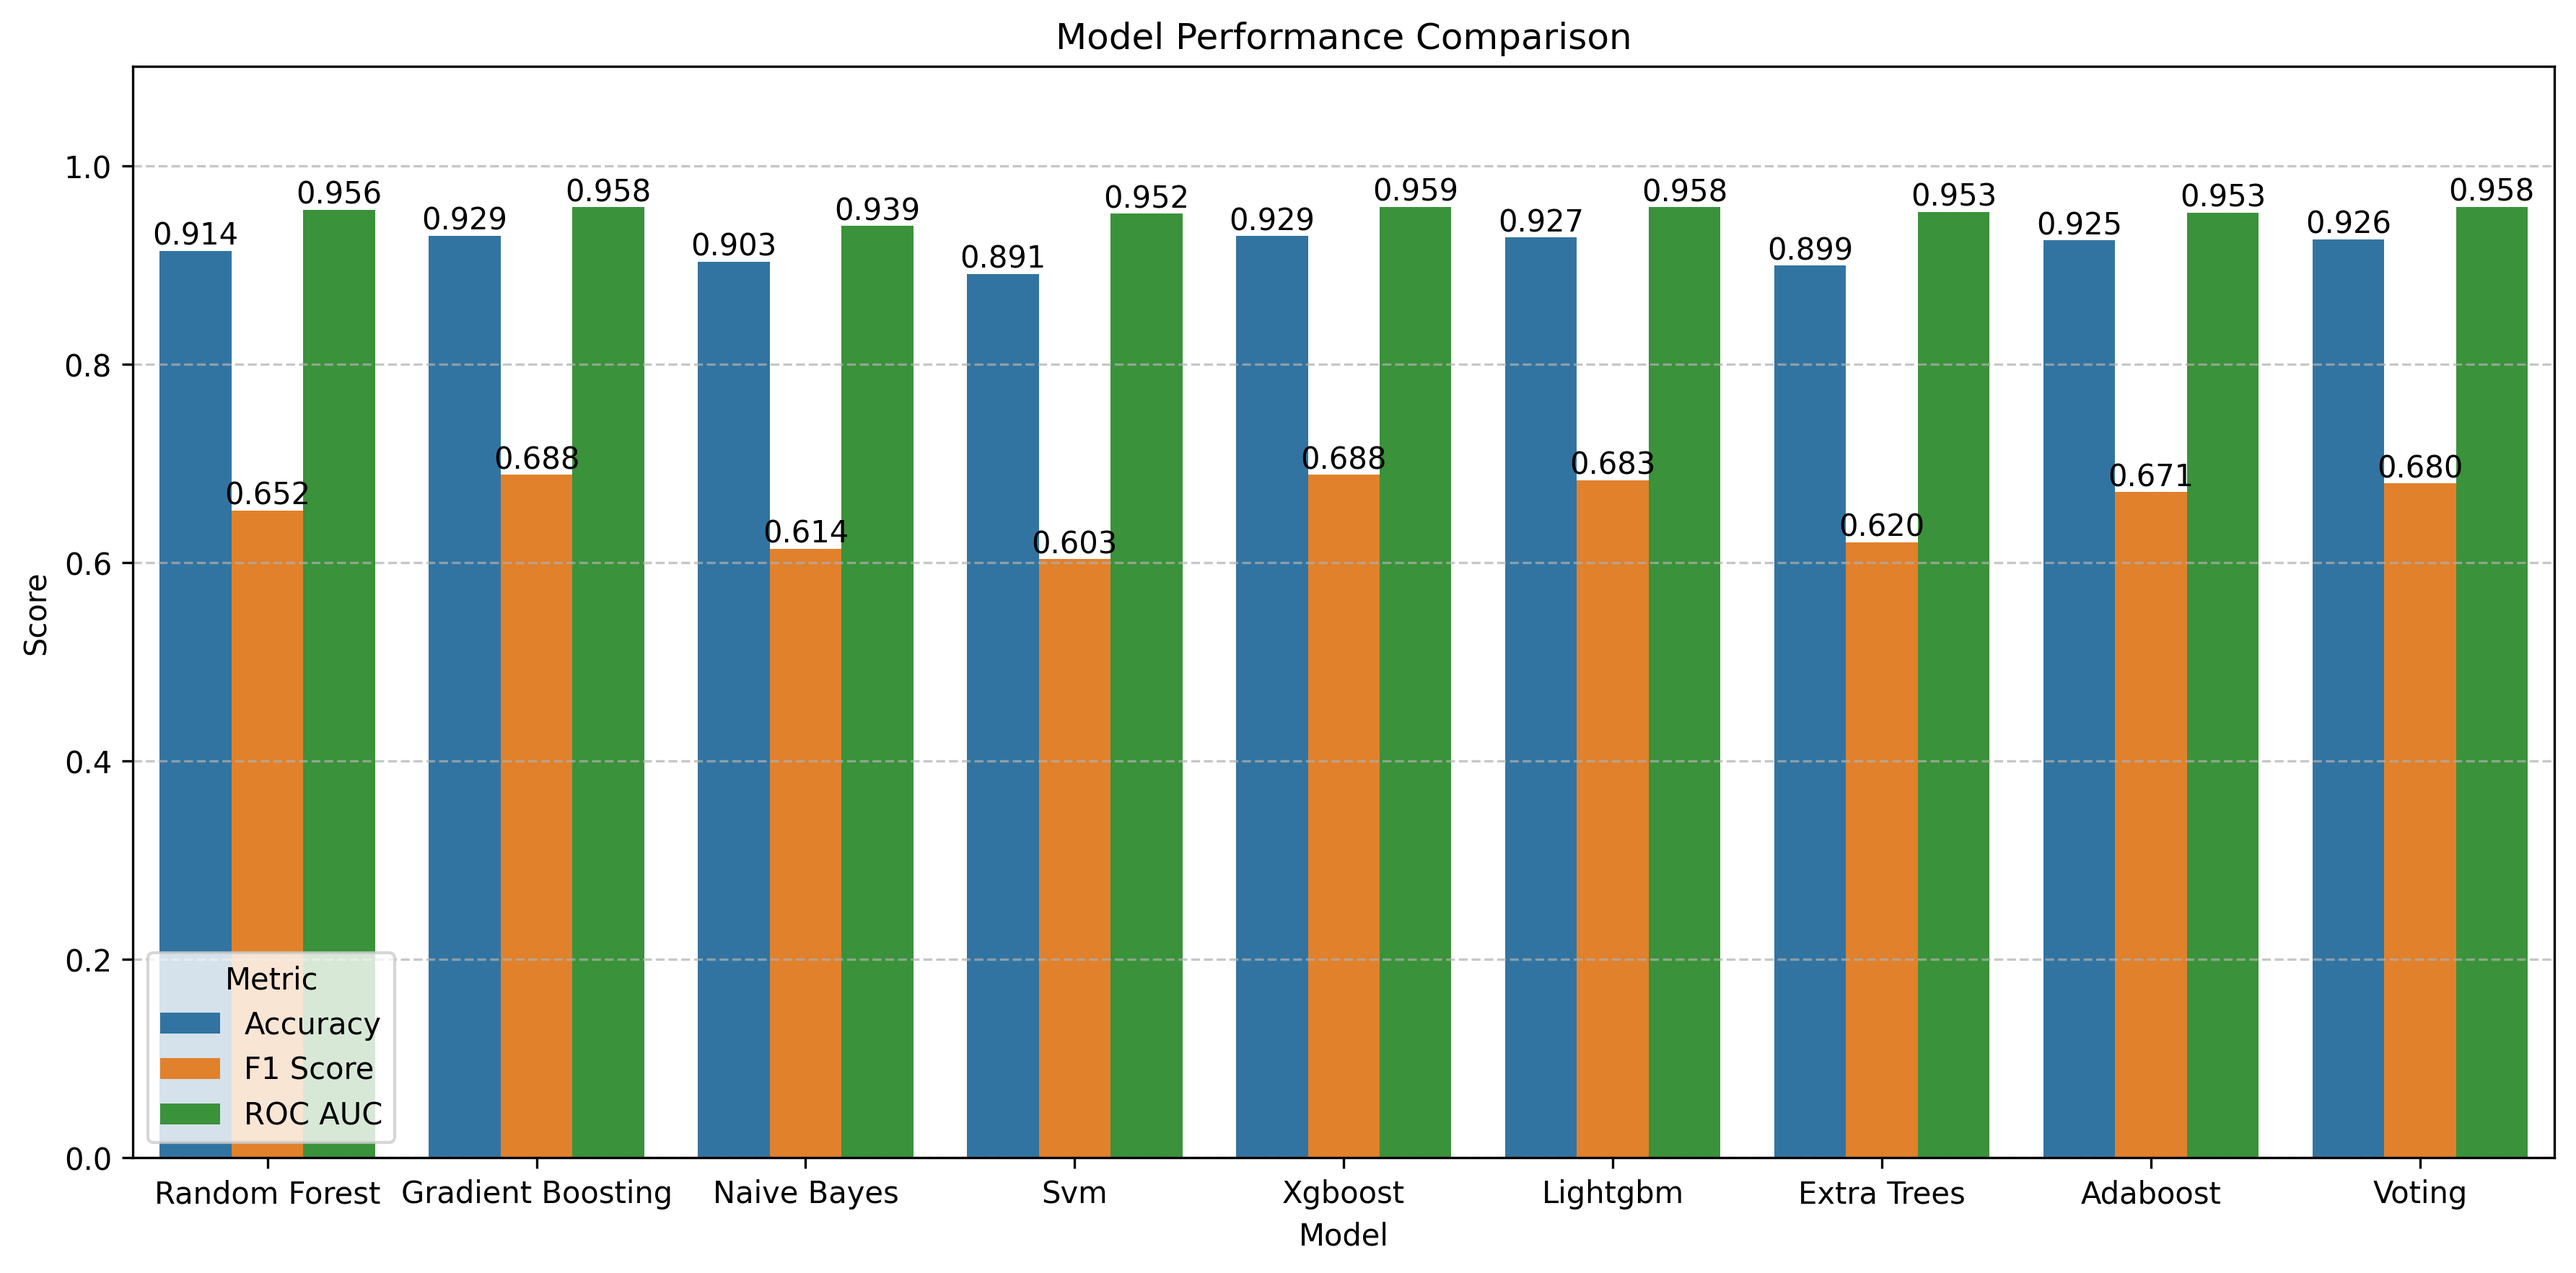
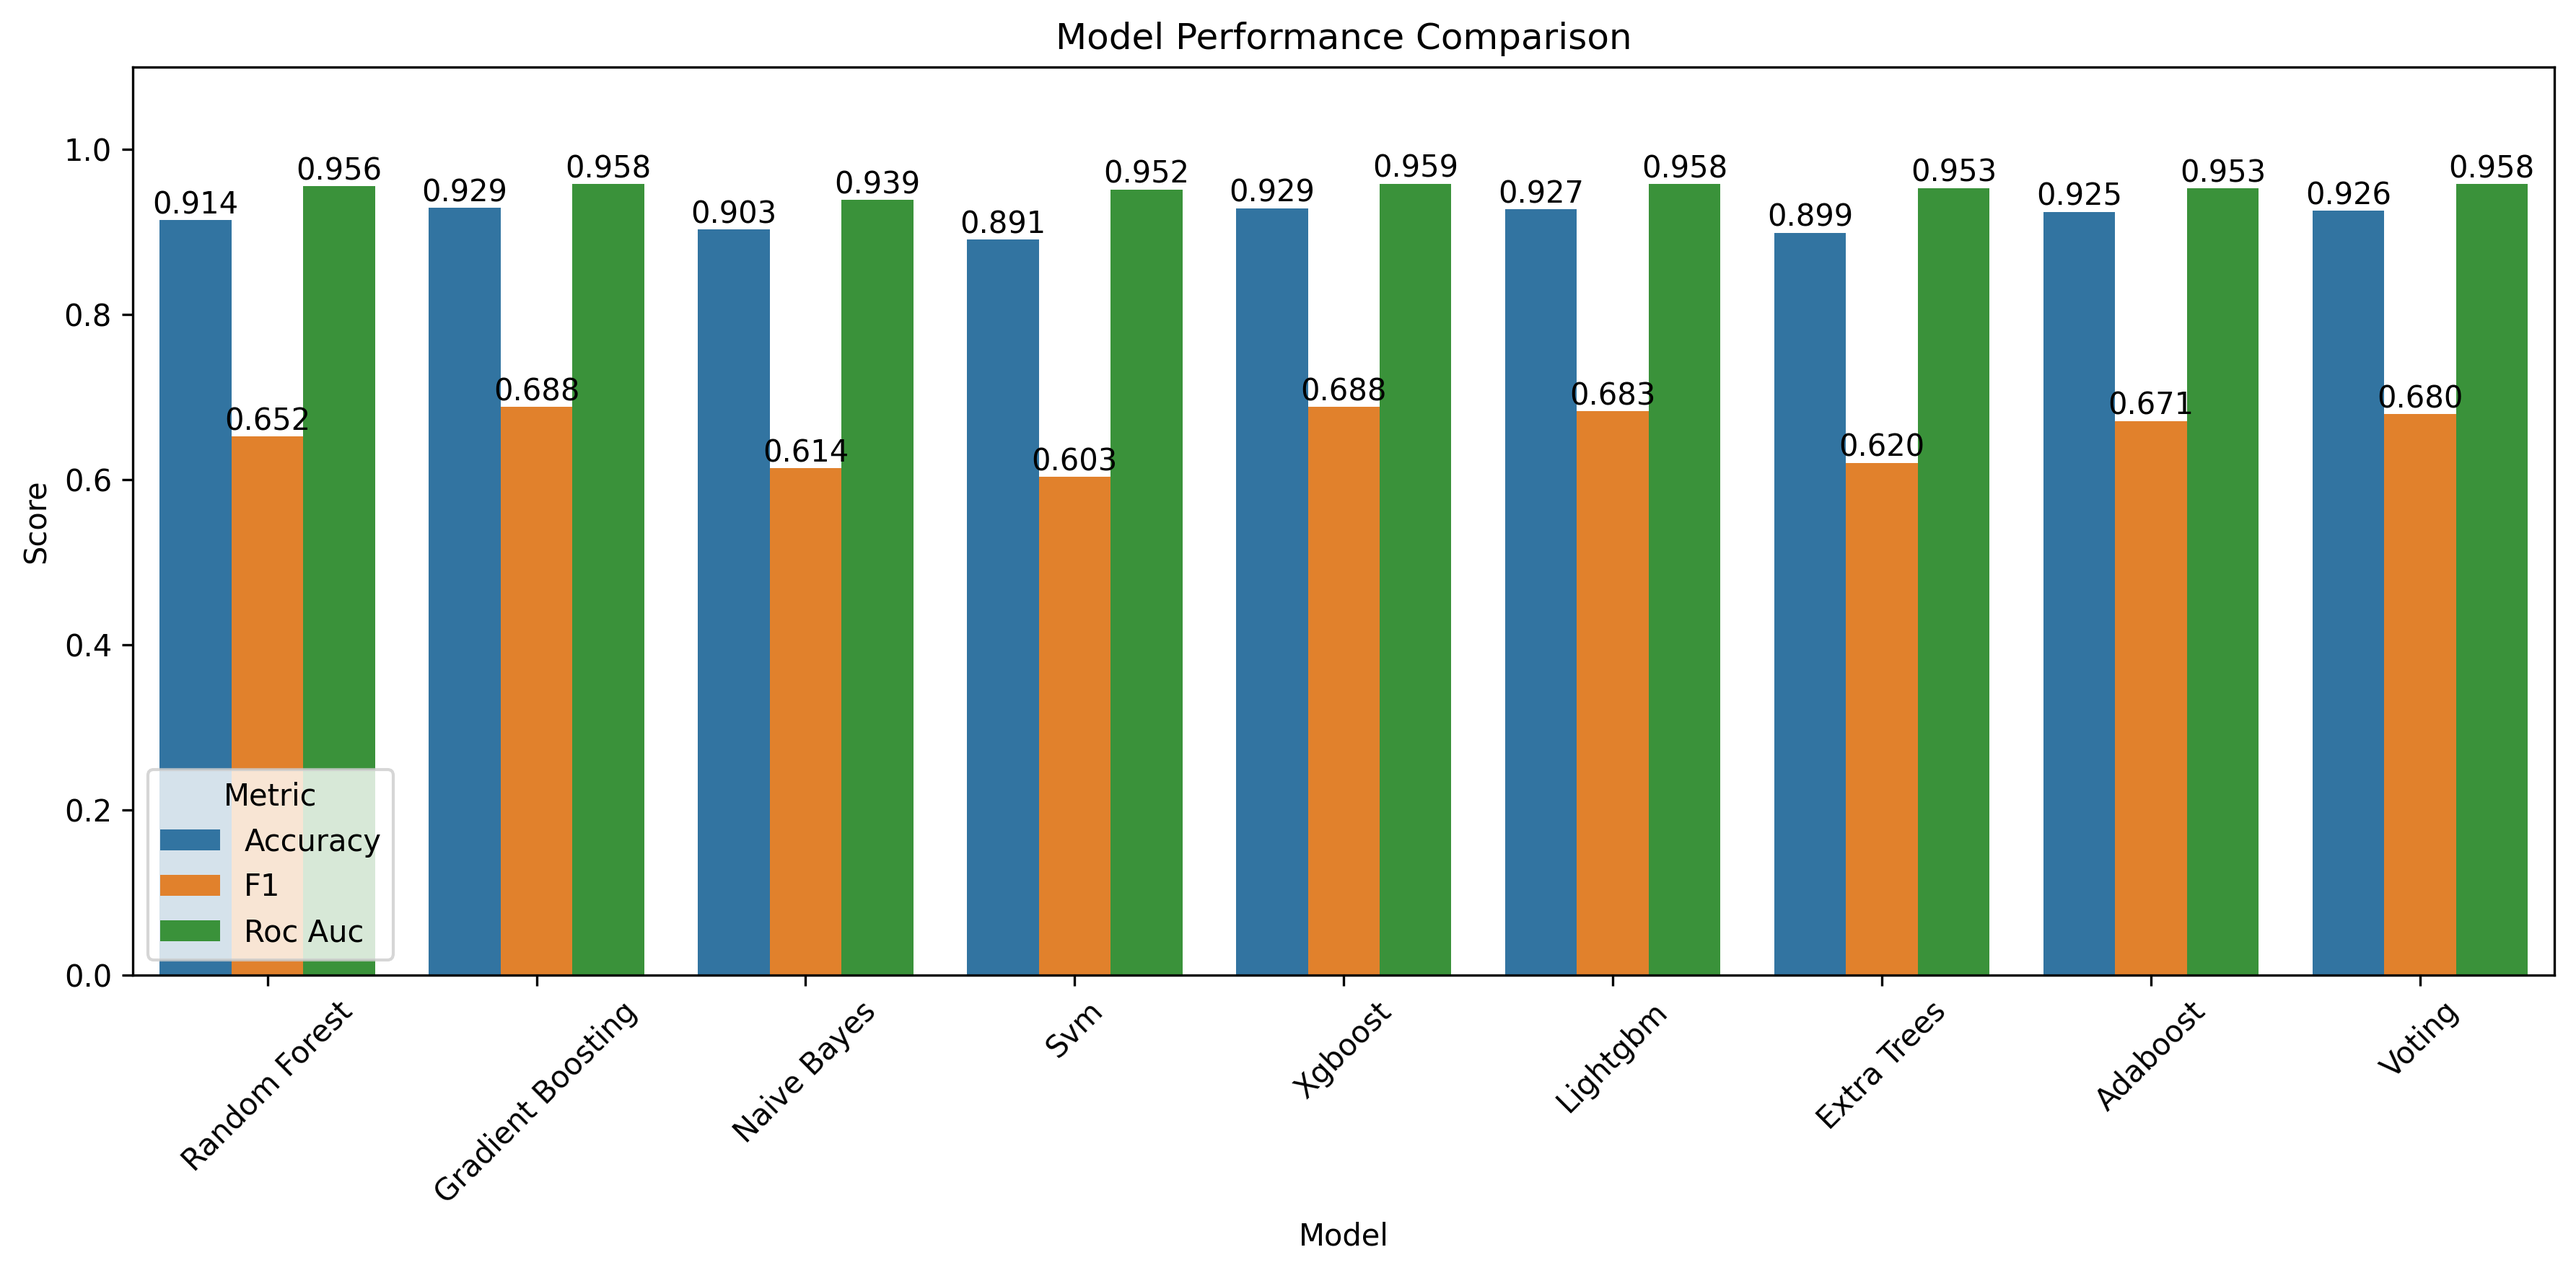
Remove Multinomial Naive Bayes

diff --git a/model/optimized_classifiers.py b/model/optimized_classifiers.py
@@ -7,14 +7,12 @@ import pandas as pd
 import matplotlib.pyplot as plt
 import seaborn as sns
 import joblib
-from imblearn.over_sampling import SMOTE
 from sklearn.ensemble import (
     RandomForestClassifier, GradientBoostingClassifier, VotingClassifier,
     AdaBoostClassifier, ExtraTreesClassifier
 )
 from sklearn.svm import SVC
 from sklearn.metrics import classification_report, confusion_matrix, f1_score, roc_auc_score, accuracy_score
-from sklearn.naive_bayes import MultinomialNB
 from sklearn.experimental import enable_halving_search_cv
 from sklearn.model_selection import HalvingRandomSearchCV, train_test_split, StratifiedKFold
 from xgboost import XGBClassifier
@@ -28,7 +26,7 @@ sys.path.append(str(project_root))
 
 # Import utilities
 from model.utils import (
-    rf_param_dist, gb_param_dist, nb_param_dist, svm_param_dist,
+    rf_param_dist, gb_param_dist, svm_param_dist,
     xgb_param_dist, lgbm_param_dist, et_param_dist, ada_param_dist,
     evaluate_smote_methods, apply_dimensionality_reduction,
     create_stacking_ensemble, create_weighted_voting_ensemble,
@@ -281,56 +279,6 @@ class OptimizedClassifierTrainer:
             self.feature_importances['gradient_boosting'] = best_gb.feature_importances_
         
         return best_gb
-    
-    def optimize_multinomial_nb(self, X_train, y_train):
-        """
-        Optimize a Multinomial Naive Bayes classifier using HalvingRandomSearchCV.
-        
-        Args:
-            X_train: Training feature matrix
-            y_train: Training target vector
-            
-        Returns:
-            Optimized Naive Bayes classifier
-        """
-        print("\nOptimizing Multinomial Naive Bayes...")
-        start_time = time.time()
-
-        # Ensure no negative values for Naive Bayes (cheap workaround)
-        X_train_nb = X_train.copy()
-        X_train_nb[X_train_nb < 0] = 0
-
-        param_dist = nb_param_dist
-
-        base_nb = MultinomialNB()
-        min_samples = 1500
-
-        halving_search = HalvingRandomSearchCV(
-            base_nb,
-            param_distributions=param_dist,
-            factor=3,
-            resource='n_samples',
-            min_resources=min_samples,
-            max_resources=min(50000, len(X_train)),
-            cv=StratifiedKFold(n_splits=5, shuffle=True, random_state=self.random_state),
-            n_jobs=self.n_jobs,
-            random_state=self.random_state,
-            verbose=1,
-            scoring='f1'
-        )
-
-        halving_search.fit(X_train_nb, y_train)
-        best_nb = halving_search.best_estimator_
-        elapsed_time = time.time() - start_time
-        
-        print(f"\nMultinomial Naive Bayes optimization completed in {elapsed_time:.2f} seconds")
-        print(f"Best parameters: {halving_search.best_params_}")
-        print(f"Best F1 score: {halving_search.best_score_:.4f}")
-        
-        self.models['naive_bayes'] = best_nb
-        self.validation_scores['naive_bayes'] = halving_search.best_score_
-
-        return best_nb
 
     def optimize_svm(self, X_train, y_train):
         """
@@ -628,10 +576,6 @@ class OptimizedClassifierTrainer:
 
         print("\nCreating Voting Classifier...")
 
-        # Handle Naive Bayes separately - don't include in voting classifier because of negative values
-        has_naive_bayes = 'naive_bayes' in self.models
-        nb_model = self.models.pop('naive_bayes') if has_naive_bayes else None
-
         # Create a list of tuples (name, model) for the voting classifier
         estimators = [(name, model) for name, model in self.models.items()]
 
@@ -641,10 +585,6 @@ class OptimizedClassifierTrainer:
             n_jobs=self.n_jobs
         )
 
-        # Add Naive Bayes back to models if it was present
-        if has_naive_bayes:
-            self.models['naive_bayes'] = nb_model
-
         print(f"Voting Classifier created with models: {[name for name, _ in estimators]}")
 
         return voting_clf
@@ -653,12 +593,7 @@ class OptimizedClassifierTrainer:
         """Evaluate a model on test data."""
         print(f"\nEvaluating {model_name}...")
 
-        # Handle Naive Bayes - ensure no negative values
-        if model_name == 'naive_bayes':
-            X_test_eval = X_test.copy()
-            X_test_eval[X_test_eval < 0] = 0
-        else:
-            X_test_eval = X_test
+        X_test_eval = X_test
 
         y_pred = model.predict(X_test_eval)
         metrics = {
@@ -865,7 +800,6 @@ class OptimizedClassifierTrainer:
         all_models = {
             'random_forest': self.optimize_random_forest,
             'gradient_boosting': self.optimize_gradient_boosting,
-            'naive_bayes': self.optimize_multinomial_nb,
             'svm': self.optimize_svm,
             'xgboost': self.optimize_xgboost,
             'lightgbm': self.optimize_lightgbm,
@@ -894,13 +828,7 @@ class OptimizedClassifierTrainer:
                     print(f"\nTraining {model_name}...")
                     model_trainer = all_models[model_name]
 
-                    # Handle Naive Bayes separately (replace negatives with zeros)
-                    if model_name == 'naive_bayes':
-                        X_train_nb = X_train.copy()
-                        X_train_nb[X_train_nb < 0] = 0
-                        model = model_trainer(X_train_nb, y_train)
-                    else:
-                        model = model_trainer(X_train, y_train)
+                    model = model_trainer(X_train, y_train)
 
                     # Evaluate the model
                     self.evaluate_model(model, X_test, y_test, model_name)

diff --git a/model/utils.py b/model/utils.py
@@ -33,11 +33,6 @@ gb_param_dist = {
     'max_features': ['sqrt', 'log2', None]
 }
 
-nb_param_dist = {
-    'alpha': loguniform(1e-5, 10),
-    'fit_prior': [True, False]
-}
-
 svm_param_dist = {
     'C': loguniform(0.1, 100),
     'gamma': loguniform(1e-5, 1),
